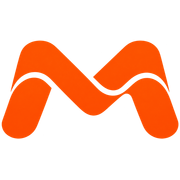
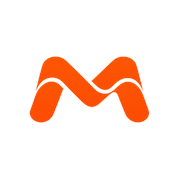
v5.01.18

Changed region(s): [[0.0, 0.2222, 1.0, 0.7778]]

diff --git a/public/sw.js b/public/sw.js
@@ -7,11 +7,15 @@
 // and purge the old cache — no manual "Clear Cache" needed by anyone.
 // Just update this timestamp whenever you deploy a major change.
 
-const CACHE_VERSION = '2026-09-01T19:36'; // ← update this on deploy
+const CACHE_VERSION = '2026-09-01T19:48'; // ← update this on deploy
 const CACHE_NAME = `Meova-v${CACHE_VERSION}`;
 const STATIC_ASSETS = [
   '/manifest.json',
   '/icon-512.png',
+  '/icon-192.png',
+  '/icon-maskable-512.png',
+  '/icon-maskable-192.png',
+  '/apple-touch-icon.png',
   '/logo.png',
   '/offline',
 ];

diff --git a/scripts/generate-pwa-icons.py b/scripts/generate-pwa-icons.py
@@ -1,0 +1,60 @@
+import os
+from PIL import Image, ImageDraw
+
+def generate_icons():
+    base_dir = r"e:\Main\projects\Meova\public"
+    logo_path = os.path.join(base_dir, "logo.png")
+    
+    if not os.path.exists(logo_path):
+        logo_path = os.path.join(base_dir, "icon-512.png")
+        
+    logo = Image.open(logo_path).convert("RGBA")
+    
+    # 1. Generate Crisp White Maskable Icons with Meova Orange Logo (centered in 72% safe zone)
+    # Background: #ffffff, Logo: scaled and centered
+    for size, filename in [
+        (512, "icon-maskable-512.png"),
+        (192, "icon-maskable-192.png"),
+        (512, "icon-512.png"),
+        (192, "icon-192.png"),
+        (512, "icon.png"),
+        (180, "apple-touch-icon.png")
+    ]:
+        canvas = Image.new("RGBA", (size, size), (255, 255, 255, 255))
+        
+        # Target logo dimensions: 70% of canvas size to fit within Android safe zone
+        target_size = int(size * 0.70)
+        
+        # Maintain aspect ratio
+        w_ratio = target_size / logo.width
+        h_ratio = target_size / logo.height
+        scale = min(w_ratio, h_ratio)
+        
+        new_w = int(logo.width * scale)
+        new_h = int(logo.height * scale)
+        
+        resized_logo = logo.resize((new_w, new_h), Image.Resampling.LANCZOS)
+        
+        # Center the logo on the canvas
+        offset_x = (size - new_w) // 2
+        offset_y = (size - new_h) // 2
+        
+        canvas.paste(resized_logo, (offset_x, offset_y), resized_logo)
+        
+        output_path = os.path.join(base_dir, filename)
+        canvas.save(output_path, "PNG", optimize=True)
+        print(f"Generated: {filename} ({size}x{size})")
+
+    # 2. Generate Favicon (64x64 multi-layer ico)
+    fav_canvas = Image.new("RGBA", (64, 64), (255, 255, 255, 255))
+    target_fav = 48
+    scale_fav = min(target_fav / logo.width, target_fav / logo.height)
+    fav_w = int(logo.width * scale_fav)
+    fav_h = int(logo.height * scale_fav)
+    resized_fav = logo.resize((fav_w, fav_h), Image.Resampling.LANCZOS)
+    fav_canvas.paste(resized_fav, ((64 - fav_w) // 2, (64 - fav_h) // 2), resized_fav)
+    fav_canvas.save(os.path.join(base_dir, "favicon.ico"), format="ICO", sizes=[(16,16), (32,32), (48,48), (64,64)])
+    print("Generated: favicon.ico")
+
+if __name__ == "__main__":
+    generate_icons()
